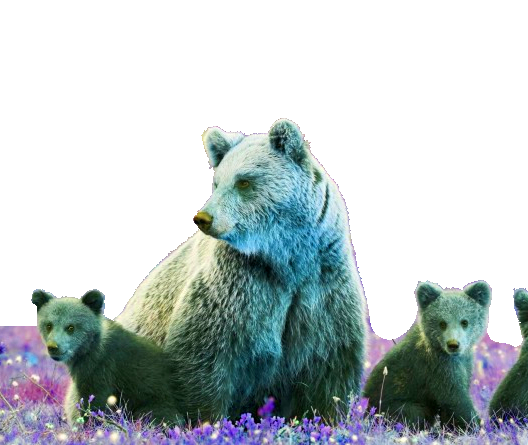
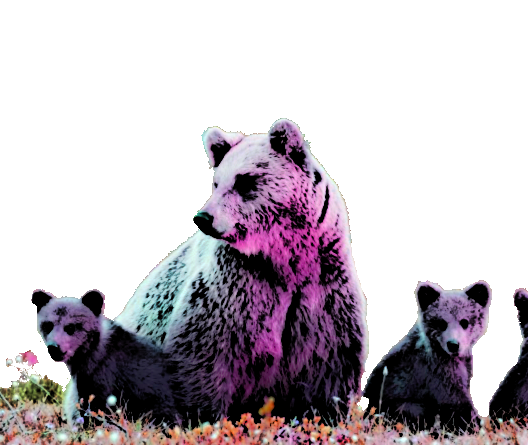
Animation work

diff --git a/src/Animations/3_Empress.js b/src/Animations/3_Empress.js
@@ -1,9 +1,41 @@
 import React from 'react'
-// import asset from '../Assets/3_Empress.png'
+import foreground from '../Assets/3_Empress_Bears.png'
+import background from '../Assets/3_Empress_Background.png'
 
 export const Empress = props => {
+
   return (
     <div className='card-animation'>
+
+      <img alt='' src={background} style={{ position: 'absolute', top: '0', left: '0', height: '100%', filter: 'grayscale(1)'}} />
+
+      <div className='empress-snow' style={{ left: `${Math.random() * 100}%`, animationDelay: `${Math.random() * 7}s`, zIndex: `${Math.floor(Math.random() * 4)}` }}></div>
+
+      <div className='empress-snow' style={{ left: `${Math.random() * 100}%`, animationDelay: `${Math.random() * 7}s`, zIndex: `${Math.floor(Math.random() * 4)}` }}></div>
+
+      <div className='empress-snow' style={{ left: `${Math.random() * 100}%`, animationDelay: `${Math.random() * 7}s`, zIndex: `${Math.floor(Math.random() * 4)}` }}></div>
+
+      <div className='empress-snow' style={{ left: `${Math.random() * 100}%`, animationDelay: `${Math.random() * 7}s`, zIndex: `${Math.floor(Math.random() * 4)}` }}></div>
+
+      <div className='empress-snow' style={{ left: `${Math.random() * 100}%`, animationDelay: `${Math.random() * 7}s`, zIndex: `${Math.floor(Math.random() * 4)}` }}></div>
+
+      <div className='empress-snow' style={{ left: `${Math.random() * 100}%`, animationDelay: `${Math.random() * 7}s`, zIndex: `${Math.floor(Math.random() * 4)}` }}></div>
+
+      <div className='empress-snow' style={{ left: `${Math.random() * 100}%`, animationDelay: `${Math.random() * 7}s`, zIndex: `${Math.floor(Math.random() * 4)}` }}></div>
+
+      <div className='empress-snow' style={{ left: `${Math.random() * 100}%`, animationDelay: `${Math.random() * 7}s`, zIndex: `${Math.floor(Math.random() * 4)}` }}></div>
+
+      <div className='empress-snow' style={{ left: `${Math.random() * 100}%`, animationDelay: `${Math.random() * 7}s`, zIndex: `${Math.floor(Math.random() * 4)}` }}></div>
+
+      <div className='empress-snow' style={{ left: `${Math.random() * 100}%`, animationDelay: `${Math.random() * 7}s`, zIndex: `${Math.floor(Math.random() * 4)}` }}></div>
+
+      <div className='empress-snow' style={{ left: `${Math.random() * 100}%`, animationDelay: `${Math.random() * 7}s`, zIndex: `${Math.floor(Math.random() * 4)}` }}></div>
+
+      <div className='empress-snow' style={{ left: `${Math.random() * 100}%`, animationDelay: `${Math.random() * 7}s`, zIndex: `${Math.floor(Math.random() * 4)}` }}></div>
+
+      <div className='empress-snow' style={{ left: `${Math.random() * 100}%`, animationDelay: `${Math.random() * 7}s`, zIndex: `${Math.floor(Math.random() * 4)}` }}></div>
+
+      <img alt='' src={foreground} style={{ position: 'absolute', top: '0', left: '0', height: '100%', animation: 'empress-hues 5s alternate infinite linear', zIndex: '1' }} />
 
     </div>
   )

diff --git a/src/Animations/9_Hermit.js b/src/Animations/9_Hermit.js
@@ -8,11 +8,37 @@ export const Hermit = props => {
 
       <img alt='' src={background}
       className='card-fit-height'
-      style={{ width: 'auto', left: '-70%' }} />
+      style={{ width: 'auto', left: '-60%' }} />
+
+      <div className='empress-snow' style={{ left: `${Math.random() * 100}%`, animationDelay: `${Math.random() * 7}s` }}></div>
+
+      <div className='empress-snow' style={{ left: `${Math.random() * 100}%`, animationDelay: `${Math.random() * 7}s` }}></div>
+
+      <div className='empress-snow' style={{ left: `${Math.random() * 100}%`, animationDelay: `${Math.random() * 7}s` }}></div>
+
+      <div className='empress-snow' style={{ left: `${Math.random() * 100}%`, animationDelay: `${Math.random() * 7}s` }}></div>
+
+      <div className='empress-snow' style={{ left: `${Math.random() * 100}%`, animationDelay: `${Math.random() * 7}s` }}></div>
+
+      <div className='empress-snow' style={{ left: `${Math.random() * 100}%`, animationDelay: `${Math.random() * 7}s` }}></div>
+
+      <div className='empress-snow' style={{ left: `${Math.random() * 100}%`, animationDelay: `${Math.random() * 7}s` }}></div>
+
+      <div className='empress-snow' style={{ left: `${Math.random() * 100}%`, animationDelay: `${Math.random() * 7}s` }}></div>
+
+      <div className='empress-snow' style={{ left: `${Math.random() * 100}%`, animationDelay: `${Math.random() * 7}s` }}></div>
+
+      <div className='empress-snow' style={{ left: `${Math.random() * 100}%`, animationDelay: `${Math.random() * 7}s` }}></div>
+
+      <div className='empress-snow' style={{ left: `${Math.random() * 100}%`, animationDelay: `${Math.random() * 7}s` }}></div>
+
+      <div className='empress-snow' style={{ left: `${Math.random() * 100}%`, animationDelay: `${Math.random() * 7}s` }}></div>
+
+      <div className='empress-snow' style={{ left: `${Math.random() * 100}%`, animationDelay: `${Math.random() * 7}s` }}></div>
 
       <img alt='' src={foreground}
       className='card-fit-height'
-      style={{ top: '-101%', left: '-70%' }} />
+      style={{ top: '-101%', left: '-60%', zIndex: '2' }} />
 
     </div>
   )

diff --git a/src/index.css b/src/index.css
@@ -235,6 +235,81 @@ code {
   z-index: 1;
 }
 
+/* 1 Magician */
+
+@keyframes m-rotate {
+  from { transform: rotate(0deg) }
+  to { transform: rotate(360deg) }
+}
+
+.magician-rotator-container {
+  border: solid red 3px;
+  border-radius: 100%;
+  height: 24%;
+  left: 40%;
+  position: absolute;
+  top: 40%;
+  width: 30%;
+}
+
+.magician-rotator {
+  border: solid red 3px;
+  border-radius: 50% 0 50% 0;
+  height: 100%;
+  left: -3px;
+  position: absolute;
+  top: -3px;
+  width: 100%;
+}
+
+/* 3 Empress */
+
+@keyframes empress-hues {
+  from { filter: hue-rotate(0deg); }
+  to { filter: hue-rotate(-90deg); }
+}
+
+@keyframes empress-snow {
+  from { filter: hue-rotate(0deg); top: -10%; transform: rotate(0deg); visibility: visible; }
+  to { filter: hue-rotate(-180deg); top: 110%; transform: rotate(360deg); visibility: visible; }
+}
+
+.empress-snow {
+  animation: empress-snow 10s infinite linear;
+  border-radius: 50% 0 50% 0;
+  background: green;
+  height: 2%;
+  position: absolute;
+  visibility: hidden;
+  width: 2%;
+  z-index: 2;
+}
+
+/* 10 Wheel */
+
+.wheel-container {
+  background: white;
+  height: 100%;
+  left: 0;
+  position: absolute;
+  top: 0;
+  width: 100%;
+}
+
+@keyframes wheel-rotate {
+  from { transform: rotate(0deg); }
+  from { transform: rotate(360deg); }
+}
+
+.wheel-inner {
+  animation: wheel-rotate 10s infinite linear;
+  left: 0;
+  position: absolute;
+  top: -5%;
+  width: 100%;
+  z-index: 1;
+}
+
 /* 13 Death */
 @keyframes death-pulse {
   0% { background: #003300 }

diff --git a/src/Animations/1_Magician.js b/src/Animations/1_Magician.js
@@ -9,7 +9,26 @@ export const Magician = props => {
       <img alt='' src={hand}
       style={{ height: '100%', width: '100%' }} />
 
-      <img alt='' src={fingers} style={{ height: '100%', width: '100%', position: 'relative', top: '-10%' }} />
+      <div className='magician-rotator-container'>
+        <div className='magician-rotator' style={{ animation: 'm-rotate 16s infinite linear'  }}>
+          <div className='magician-rotator' style={{ animation: 'm-rotate 16s infinite linear'  }}>
+            <div className='magician-rotator' style={{ animation: 'm-rotate 16s infinite linear'  }}>
+              <div className='magician-rotator' style={{ animation: 'm-rotate 16s infinite linear'  }}>
+                <div className='magician-rotator' style={{ animation: 'm-rotate 16s infinite linear'  }}>
+                  <div className='magician-rotator' style={{ animation: 'm-rotate 16s infinite linear'  }}>
+                    <div className='magician-rotator' style={{ animation: 'm-rotate 16s infinite linear'  }}>
+                    </div>
+                  </div>
+                </div>
+              </div>
+            </div>
+          </div>
+        </div>
+      </div>
+
+      <img alt='' src={fingers}
+      style={{ height: '100%', width: '100%', position: 'absolute', left: '0', top: '0', zIndex: '1' }} />
+
     </div>
   )
 }

diff --git a/src/Animations/10_WheelOfFortune.js b/src/Animations/10_WheelOfFortune.js
@@ -1,9 +1,24 @@
 import React from 'react'
-// import asset from '../Assets/10_WheelOfFortune.png'
+import ink from '../Assets/10_Wheel_Ink.png'
+import knot from '../Assets/10_Wheel_Knot.png'
+import planet from '../Assets/10_Wheel_Planet.png'
+import snake from '../Assets/10_Wheel_Snake.png'
 
 export const WheelOfFortune = props => {
   return (
     <div className='card-animation' style={{ textAlign: 'centered' }}>
+
+      <div className='wheel-container'>
+
+      <img alt='' src={ink} className='wheel-inner' style={{ animationDuration: '16s' }} />
+
+      <img alt='' src={knot} className='wheel-inner' style={{ animationDuration: '12s' }} />
+
+      <img alt='' src={planet} className='wheel-inner' style={{ animationDuration: '8s' }} />
+
+      <img alt='' src={snake} className='wheel-inner' style={{ animationDuration: '4s' }} />
+
+      </div>
 
     </div>
   )
